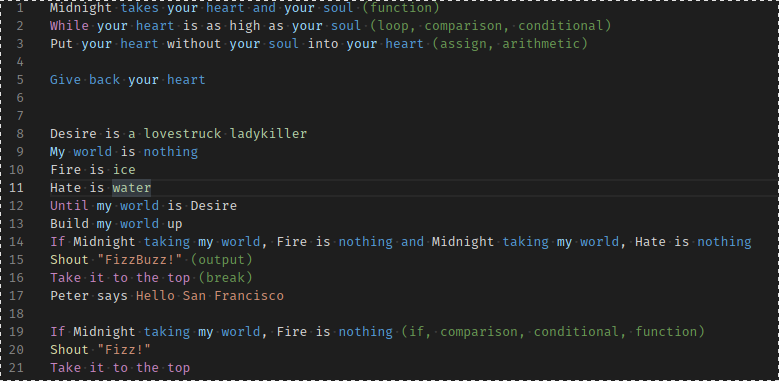
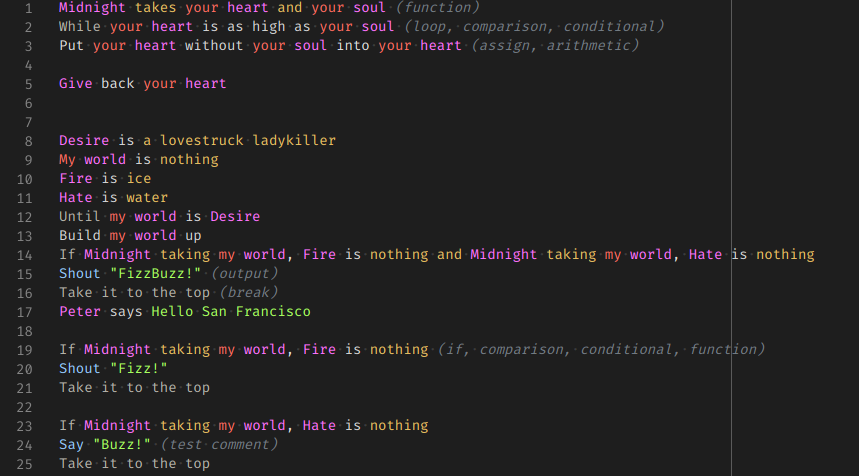
🔖 Bump version 1.0.0

diff --git a/CHANGELOG.md b/CHANGELOG.md
@@ -1,7 +1,17 @@
 # Change Log
-All notable changes to the "rockstar-language" extension will be documented in this file.
 
-Check [Keep a Changelog](http://keepachangelog.com/) for recommendations on how to structure this file.
+All notable changes to the "rockstar-language" extension will be documented in
+this file.
 
-## [Unreleased]
+Check [Keep a Changelog](http://keepachangelog.com/) for recommendations on how
+to structure this file.
+
+## [1.0.0] - 2019-10-10
+
+### Fixed
+
+- Proper variable highlighting
+
+## [0.0.1] - 2018-08-12
+
 - Initial release
